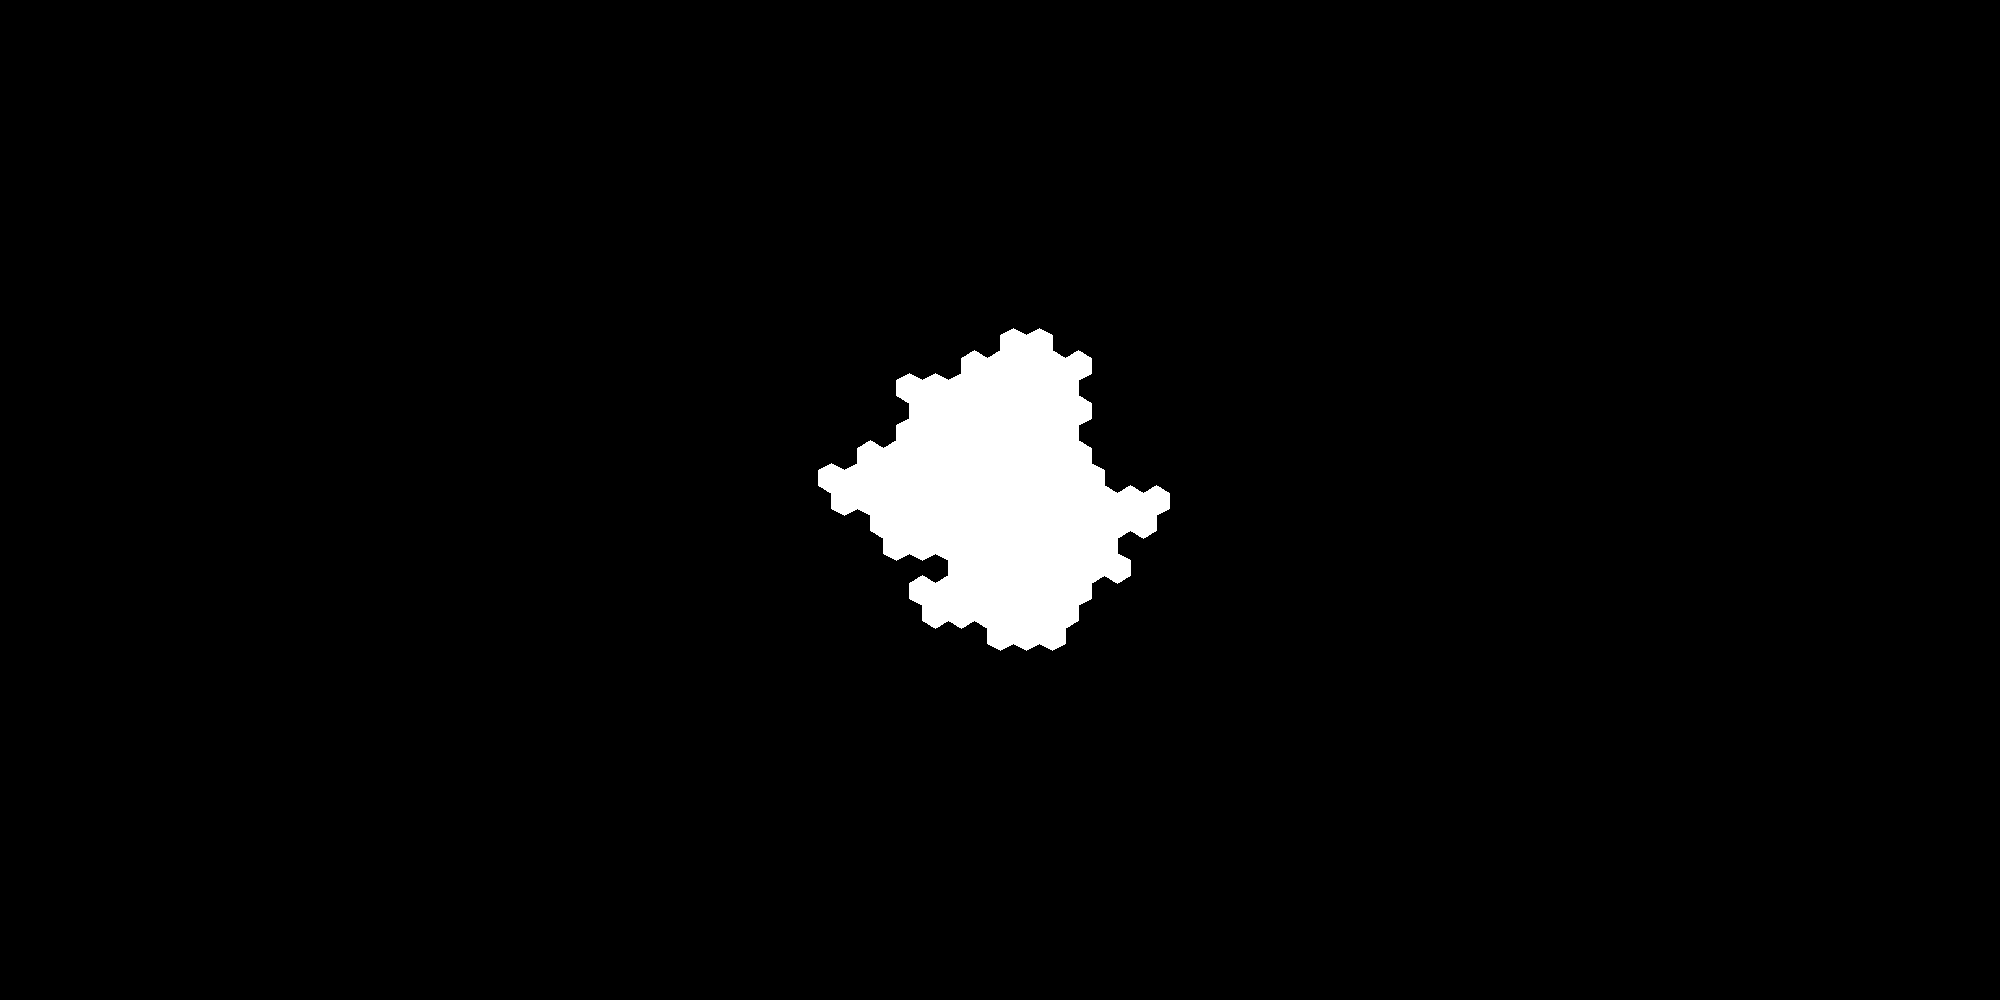
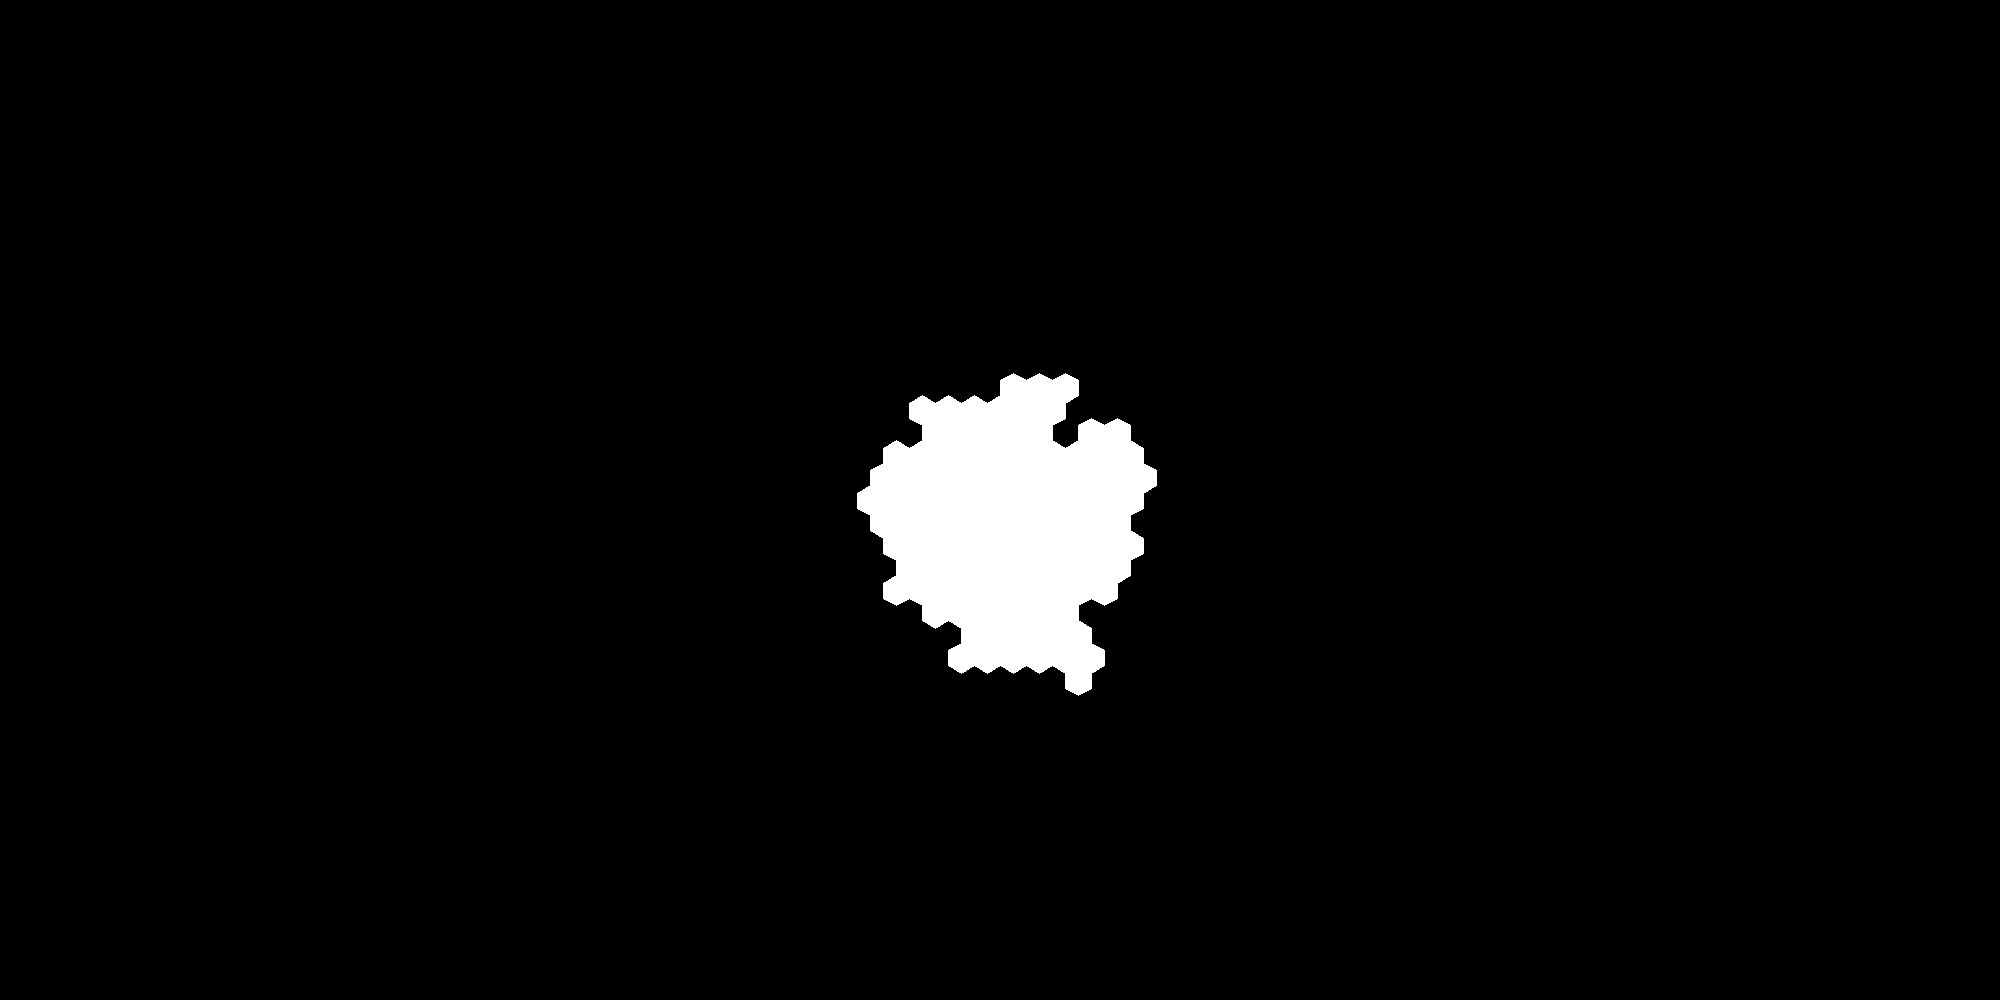
Refactor main loop to generate and save image only when shape has no holes

Changed region(s): [[0.403, 0.31, 0.589, 0.558], [0.465, 0.558, 0.558, 0.713], [0.434, 0.558, 0.496, 0.62]]

diff --git a/src/main.rs b/src/main.rs
@@ -13,12 +13,17 @@ use crate::drawing::{DrawHexMap, ImageConfig};
 fn main() -> Result<(), Box<dyn Error>>{
     let mut rng = rng();
     let mut img: ImageBuffer<Rgb<u8>, Vec<u8>> = ImageBuffer::new(2000, 1000);
-    
-    let raw = TileMap_rawShapeGen::new(MapSize::Big, &mut rng);
-    let shape = TileMap_shape::new(raw);
     let image_config = ImageConfig { height: img.height(), width: img.width(), hex_radius: 15.0 };
+    
+    loop {
+        let raw = TileMap_rawShapeGen::new(MapSize::Big, &mut rng);
+        let shape = TileMap_shape::new(raw);
 
-    shape.draw(&mut img, image_config);
-    img.save(r"C:\Users\piotr\Documents\code_projects\rust\tucan-v2\image.png")?;
+        if shape.has_no_holes() {
+            shape.draw(&mut img, image_config);
+            img.save(r"C:\Users\piotr\Documents\code_projects\rust\tucan-v2\image.png")?;
+            break;
+        }
+    }
     Ok(())
 }

diff --git a/src/hexmap.rs b/src/hexmap.rs
@@ -102,10 +102,24 @@ pub struct TileMap_shape {
 }
 impl TileMap_shape {
     
+    
     pub fn new(from: TileMap_rawShapeGen) -> Self {
         let map = HexagonalMap::new(Hex::ZERO, from.size_u32(), |h| matches!(from[h], RawTileState::Taken));
         Self { map, size: from.size }
     }
+    
+    pub fn has_no_holes(&self) -> bool {
+        for (hex, state) in self.iter() {
+            if !*state {
+                if hex.all_neighbors().iter().all(|s| matches!(self.get(*s), Some(&true))) {
+                    return false;
+                }
+            }
+            
+        }
+        true
+    }
+
 
     pub fn iter(&self) -> impl Iterator<Item = (Hex, &bool)> {
         self.map.iter()
